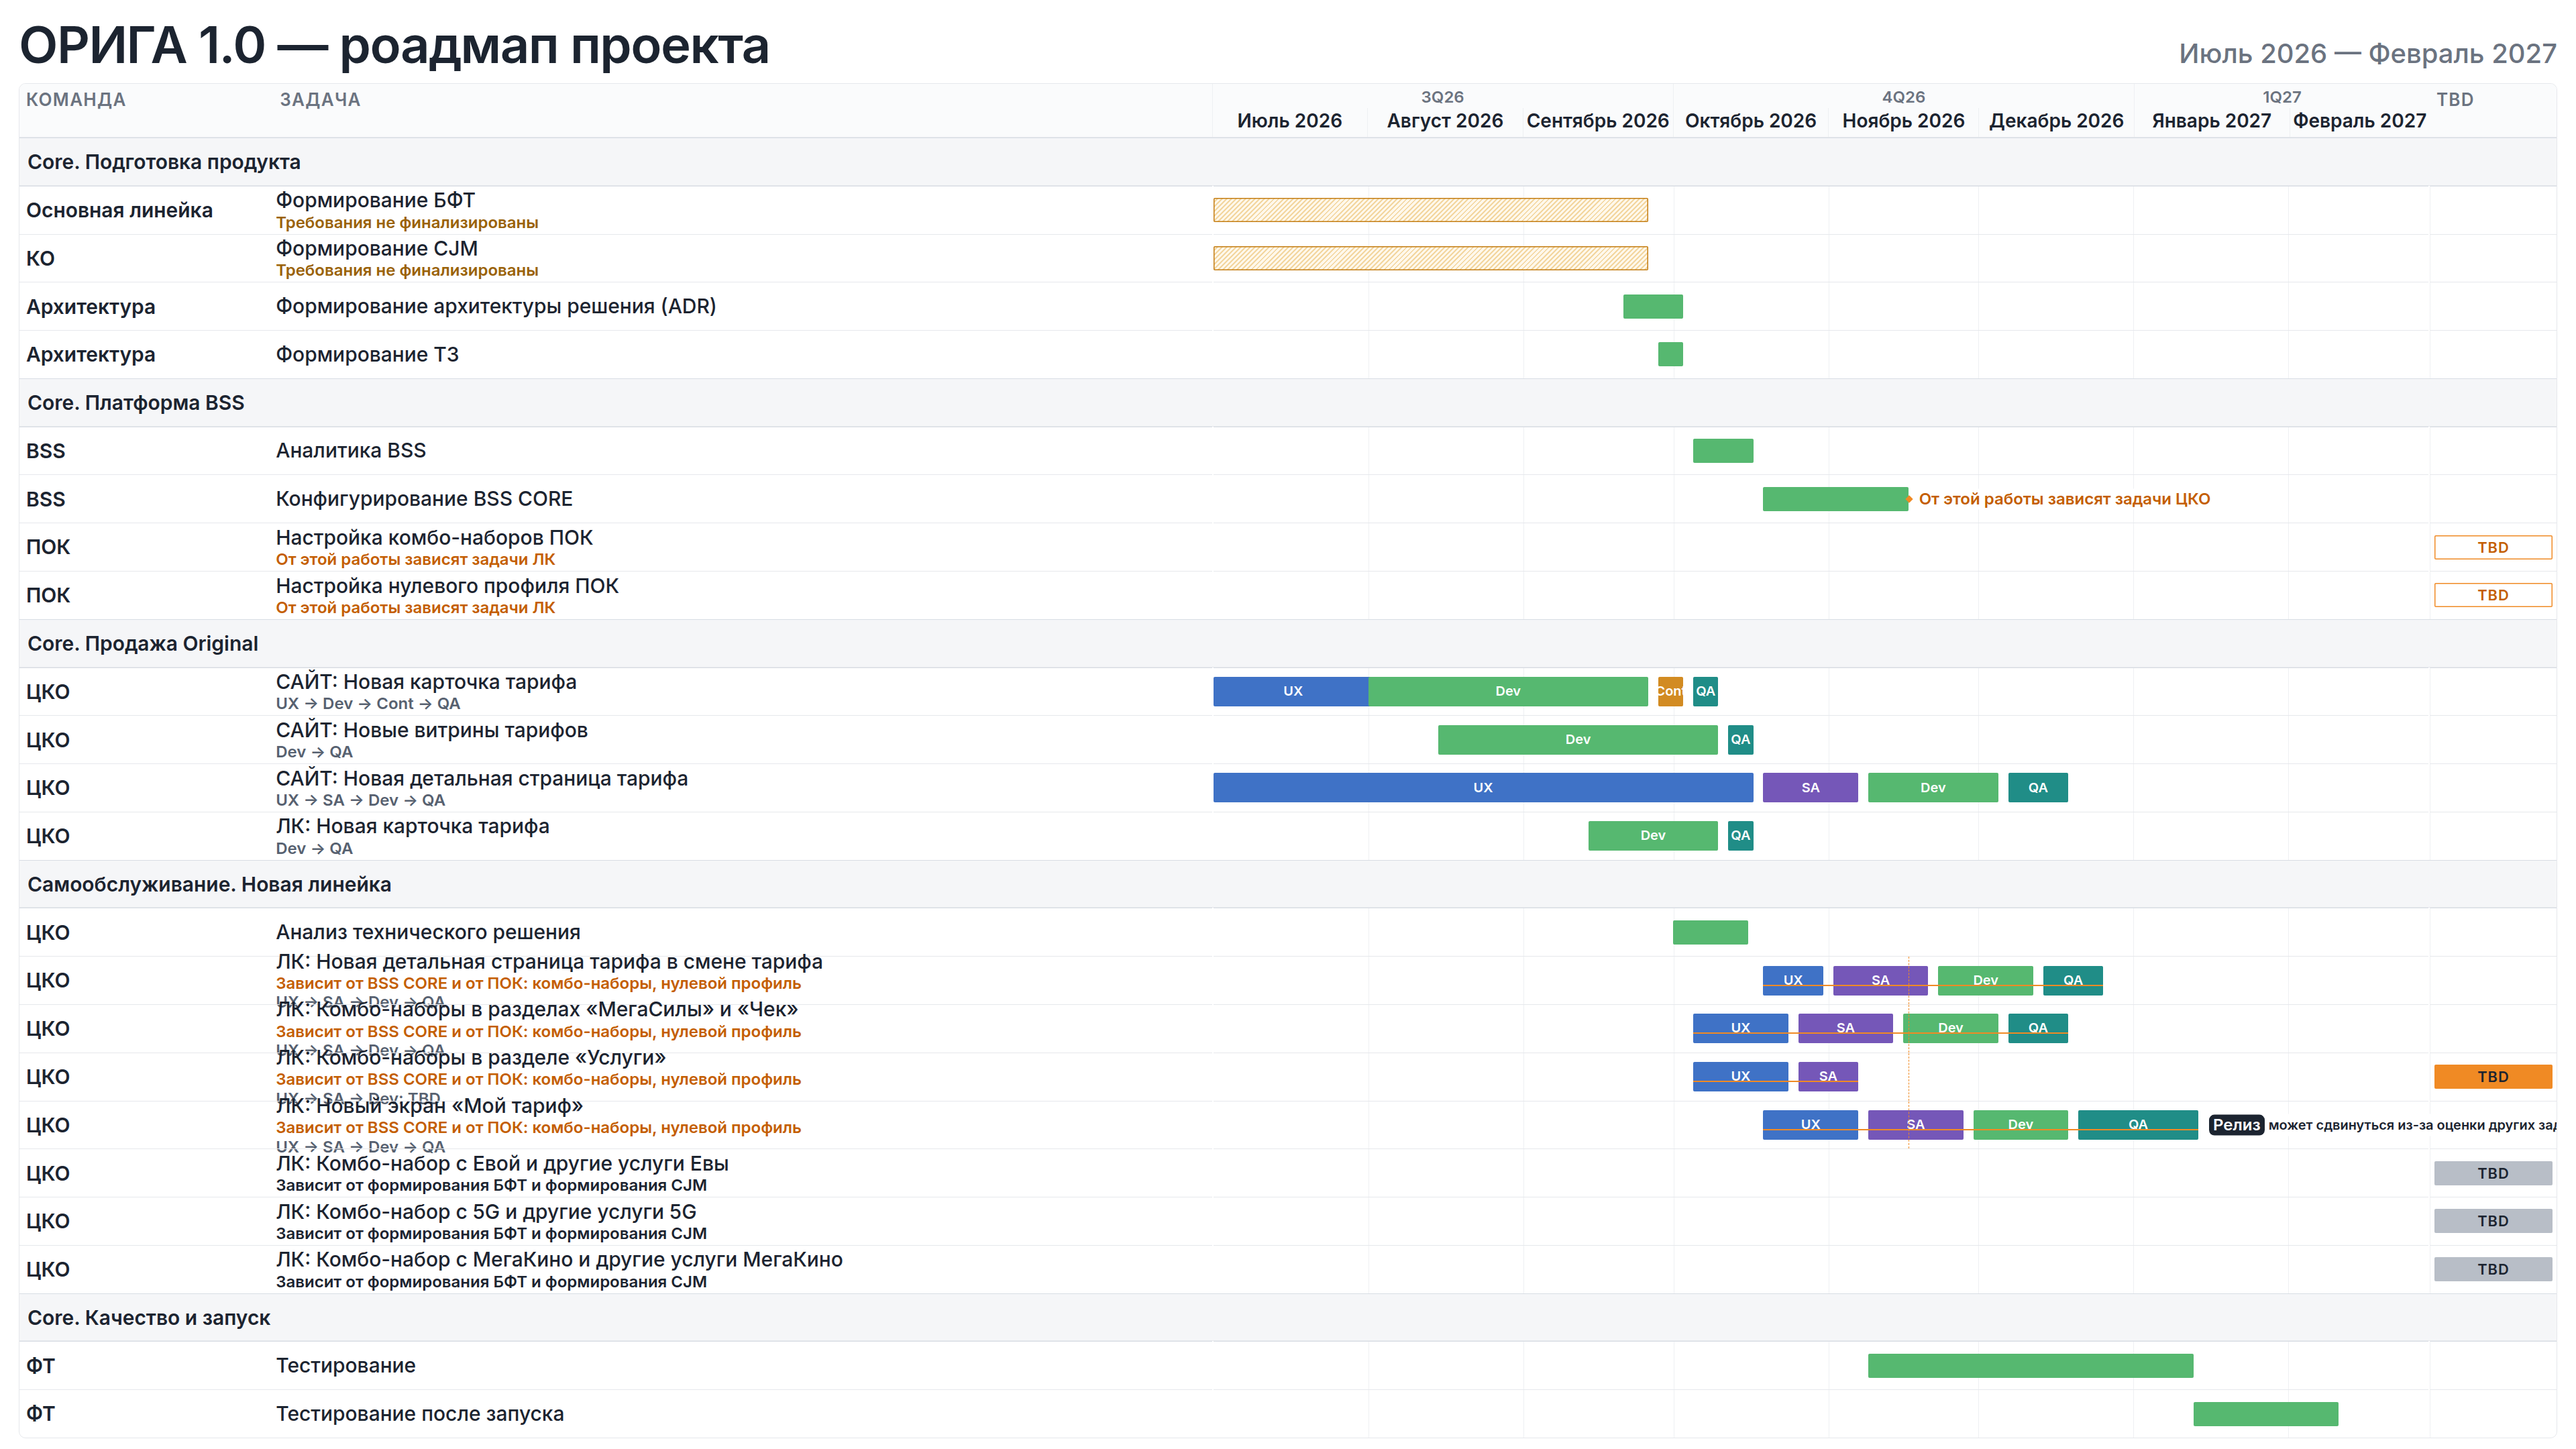
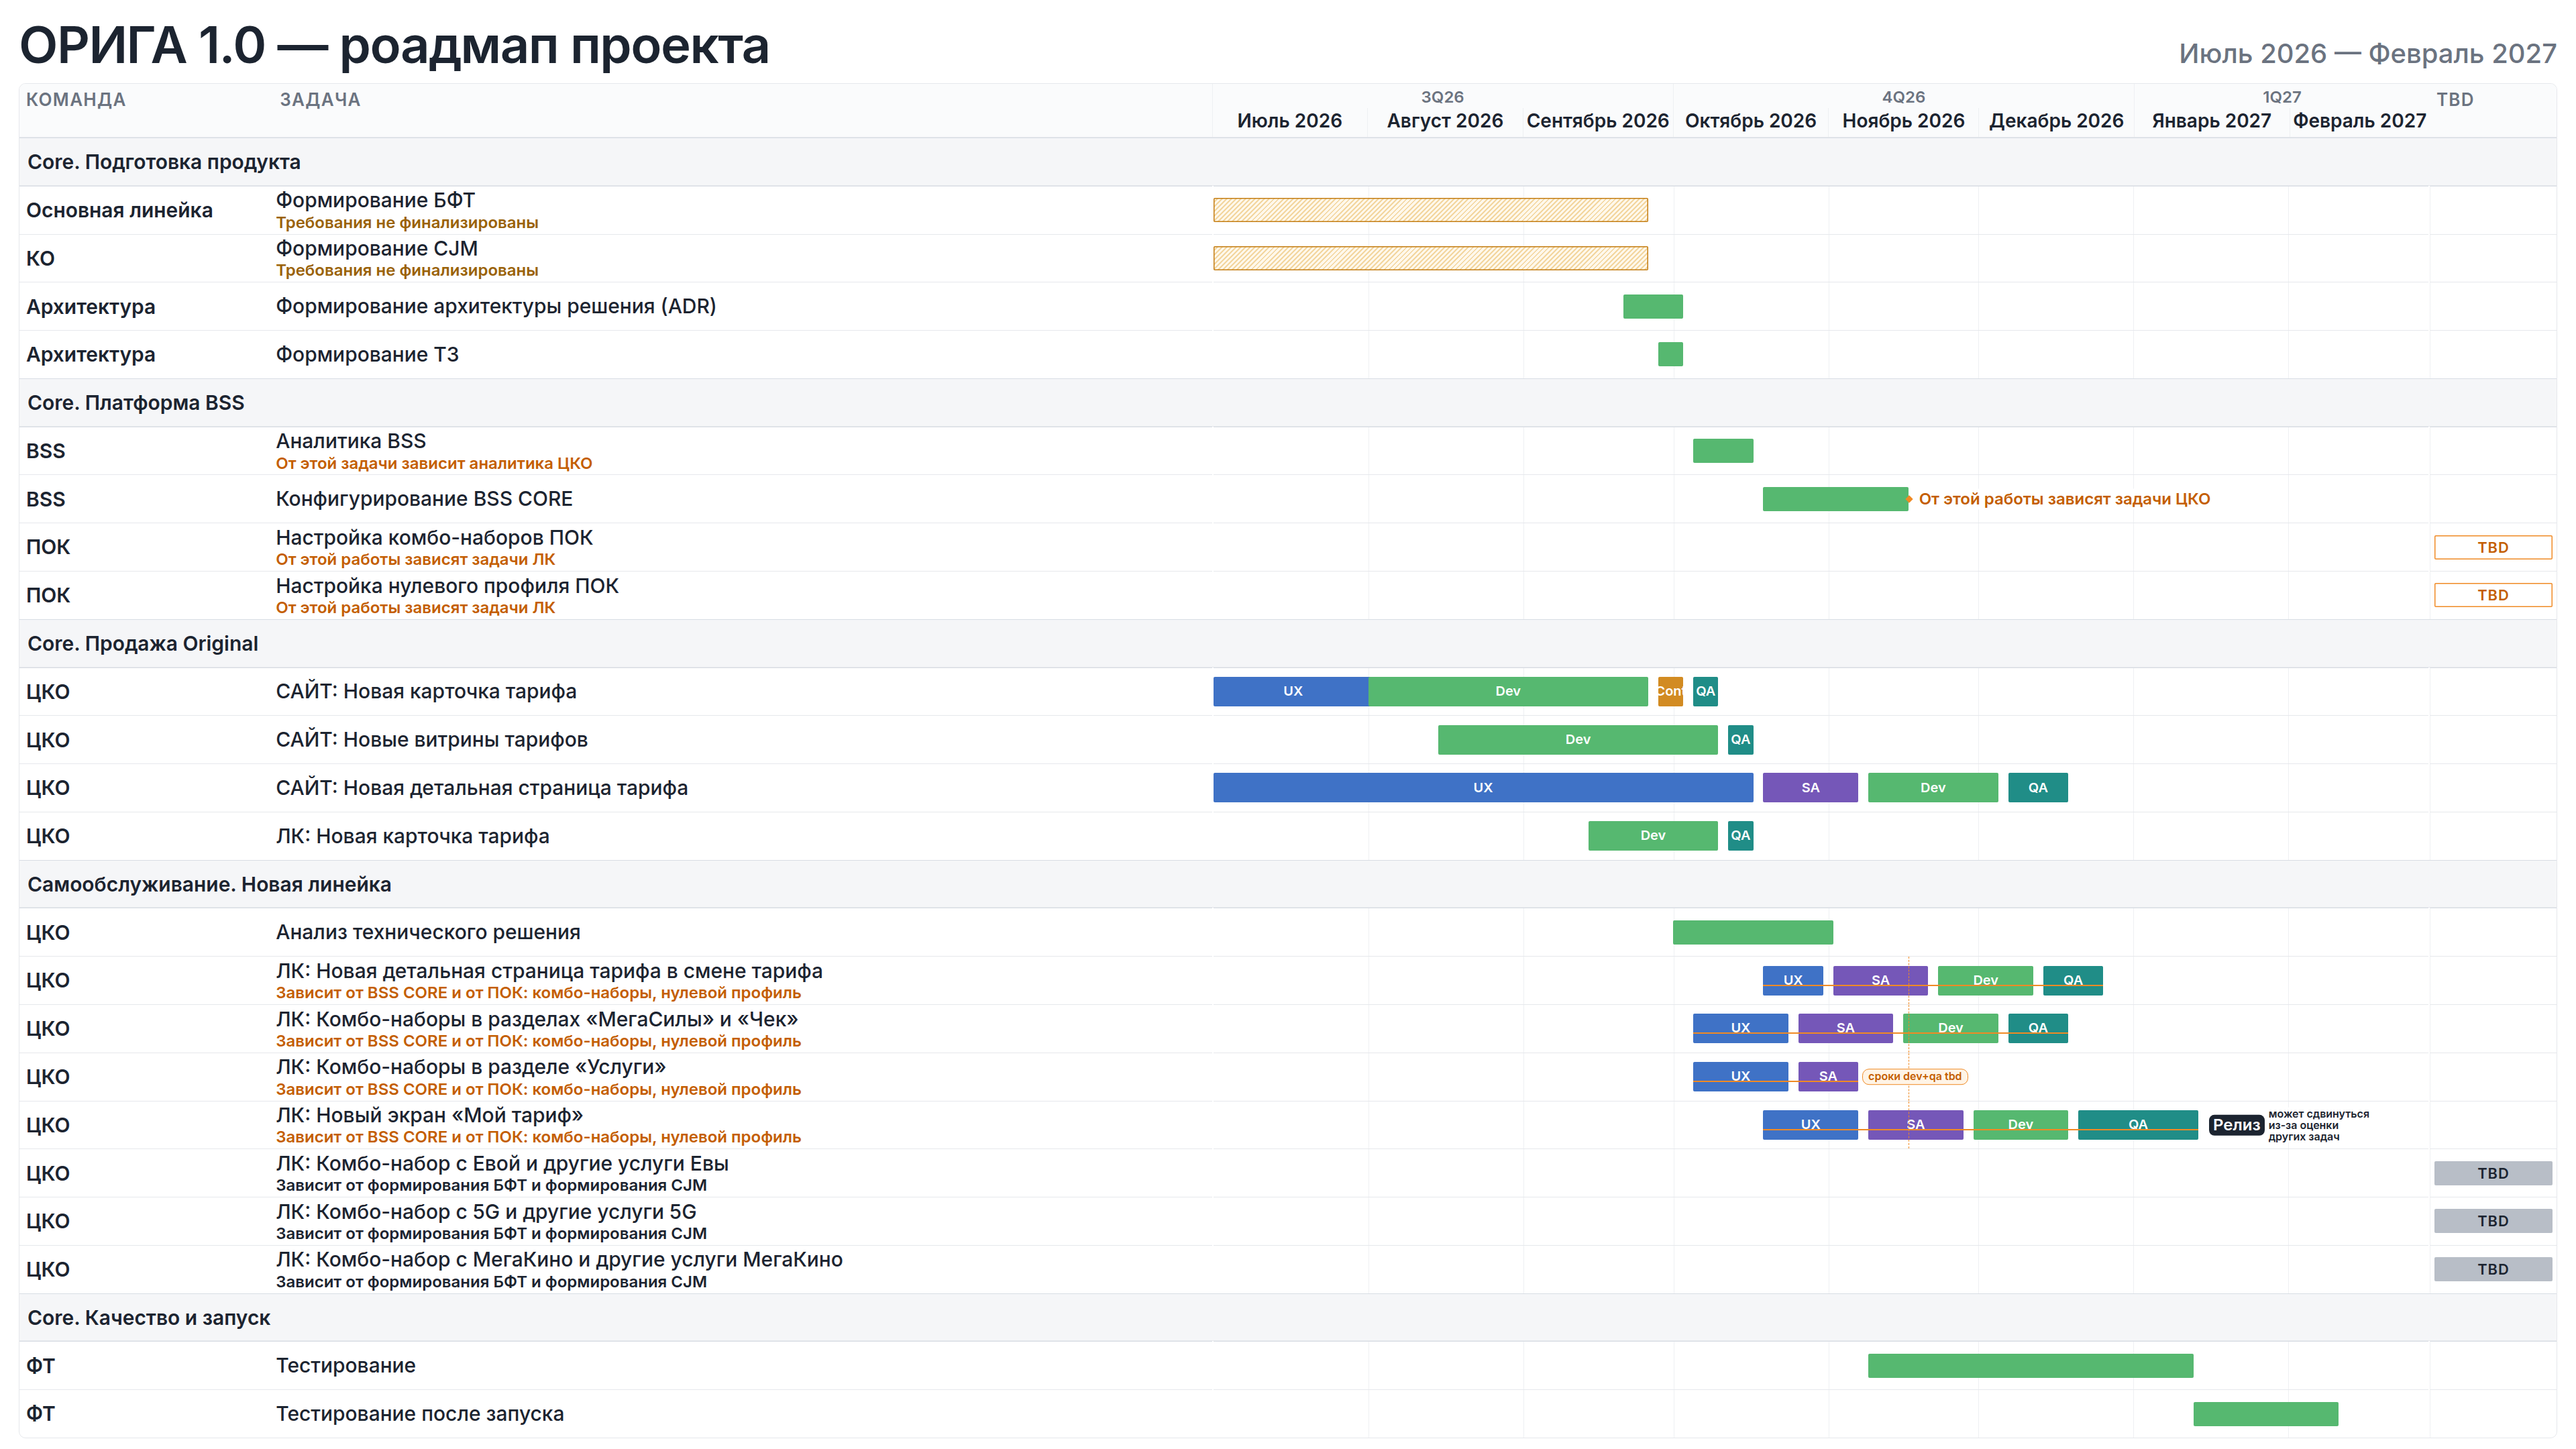
Refine roadmap annotations and TBD placement

diff --git a/roadmap/render.js b/roadmap/render.js
@@ -121,6 +121,7 @@
       const isPokSource = row.id === 'pok-combo' || row.id === 'pok-zero';
       let note = '';
       if (row.requirementsOpen) note += '<span class="task-note open">Требования не финализированы</span>';
+      if (row.comment) note += `<span class="task-note source">${esc(row.comment)}</span>`;
       if (dependsOnBss && dependsOnPok) {
         note += '<span class="task-note dep">Зависит от BSS CORE и от ПОК: комбо-наборы, нулевой профиль</span>';
       } else if (dependsOnBss) {
@@ -130,10 +131,6 @@
       }
       if (dependsOnPrep) note += '<span class="task-note link">Зависит от формирования БФТ и формирования CJM</span>';
       if (isPokSource) note += '<span class="task-note source">От этой работы зависят задачи ЛК</span>';
-      if (row.roles) {
-        const roles = [...new Set(row.roles.map((segment) => roleLabel(segment.role)))];
-        note += `<span class="task-note roles">${esc(roles.join(' → '))}${row.partialTbd ? ' → Dev: TBD' : ''}</span>`;
-      }
       const laneMeta = `${row.id ? ` data-id="${esc(row.id)}"` : ''}${dependsOnPrep ? ' data-prep="1"' : ''}`;
       html += `<div class="team${group}">${esc(row.team)}</div>`;
       html += `<div class="task${group}"${dependsOnPrep ? ' data-prep="1"' : ''}><span class="task-name">${esc(row.task)}</span>${note}</div>`;
@@ -164,14 +161,21 @@
       const dependencyLine = row.roles && orange
         ? `<i class="dependency-line" style="${geom.style}"></i>`
         : '';
+      const inlineTbd = row.partialTbd && row.roles
+        ? (() => {
+          const lastRole = barGeom(row.roles[row.roles.length - 1]);
+          const left = lastRole.left + lastRole.width;
+          return `<span class="inline-tbd" style="left:calc(${left.toFixed(4)}% + 6px)">сроки dev+qa tbd</span>`;
+        })()
+        : '';
       const flag = row.id === 'bss-core' && depAt != null
         ? `<span class="dep-flag" style="left:calc(${depAt.toFixed(4)}% + 10px)">От этой работы зависят задачи ЦКО</span>`
         : '';
       const release = row.release
-        ? `<span class="release-mark" style="left:calc(${(geom.left + geom.width).toFixed(4)}% + 6px)"><b>Релиз</b><span>может сдвинуться из-за оценки других задач</span></span>`
+        ? `<span class="release-mark" style="left:calc(${(geom.left + geom.width).toFixed(4)}% + 6px)"><b>Релиз</b><span>может сдвинуться<br>из-за оценки<br>других задач</span></span>`
         : '';
-      html += `<div class="lane${dependsOnBss ? ' dep' : ''}${group}"${laneMeta}>${dependencyLine}${roleBars}${depTick}${flag}${release}</div>`;
-      html += `<div class="tbd-cell${group}">${row.partialTbd ? '<span class="tbd dep">TBD</span>' : ''}</div>`;
+      html += `<div class="lane${dependsOnBss ? ' dep' : ''}${group}"${laneMeta}>${dependencyLine}${roleBars}${inlineTbd}${depTick}${flag}${release}</div>`;
+      html += `<div class="tbd-cell${group}"></div>`;
     });
   });
 

diff --git a/roadmap/data.js b/roadmap/data.js
@@ -16,7 +16,10 @@ window.ROADMAP_DATA = {
     {
       title: 'Core. Платформа BSS',
       rows: [
-        { team: 'BSS', task: 'Аналитика BSS', start: '2026-10-05', end: '2026-10-16' },
+        {
+          team: 'BSS', task: 'Аналитика BSS', start: '2026-10-05', end: '2026-10-16',
+          comment: 'От этой задачи зависит аналитика ЦКО',
+        },
         { team: 'BSS', task: 'Конфигурирование BSS CORE', start: '2026-10-19', end: '2026-11-16', id: 'bss-core' },
         { team: 'ПОК', task: 'Настройка комбо-наборов ПОК', tbd: true, id: 'pok-combo' },
         { team: 'ПОК', task: 'Настройка нулевого профиля ПОК', tbd: true, id: 'pok-zero' },
@@ -62,7 +65,7 @@ window.ROADMAP_DATA = {
     {
       title: 'Самообслуживание. Новая линейка',
       rows: [
-        { team: 'ЦКО', task: 'Анализ технического решения', start: '2026-10-01', end: '2026-10-15' },
+        { team: 'ЦКО', task: 'Анализ технического решения', start: '2026-10-01', end: '2026-11-01' },
         {
           team: 'ЦКО', task: 'ЛК: Новая детальная страница тарифа в смене тарифа', start: '2026-10-19', end: '2026-12-25',
           dependsOn: ['bss-core', 'pok-combo', 'pok-zero'],

diff --git a/roadmap/roadmap.css b/roadmap/roadmap.css
@@ -189,7 +189,6 @@ h1 {
 .task-note.dep,
 .task-note.source { color: #c45e00; }
 .task-note.link { color: #1c2430; }
-.task-note.roles { color: #576170; }
 
 .team.group, .task.group, .lane.group, .tbd-cell.group {
   border-top: 1px solid #d8dde4;
@@ -266,6 +265,22 @@ h1 {
   z-index: 2;
 }
 
+.inline-tbd {
+  position: absolute;
+  top: 50%;
+  transform: translateY(-50%);
+  z-index: 3;
+  padding: 2px 8px;
+  border: 1.5px solid #f08a24;
+  border-radius: 10px;
+  background: #fff4e6;
+  color: #c45e00;
+  font-size: clamp(8px, 0.42vw, 16px);
+  font-weight: 700;
+  line-height: 1.1;
+  white-space: nowrap;
+}
+
 .bar.anchor::after {
   content: "";
   position: absolute;
@@ -329,11 +344,11 @@ h1 {
 
 .release-mark span {
   color: #1c2430;
-  font-size: clamp(10px, 0.52vw, 20px);
+  font-size: clamp(8px, 0.42vw, 16px);
   font-weight: 600;
   line-height: 1.05;
   background: #fff;
-  white-space: nowrap;
+  text-align: left;
 }
 
 .tbd-cell {
